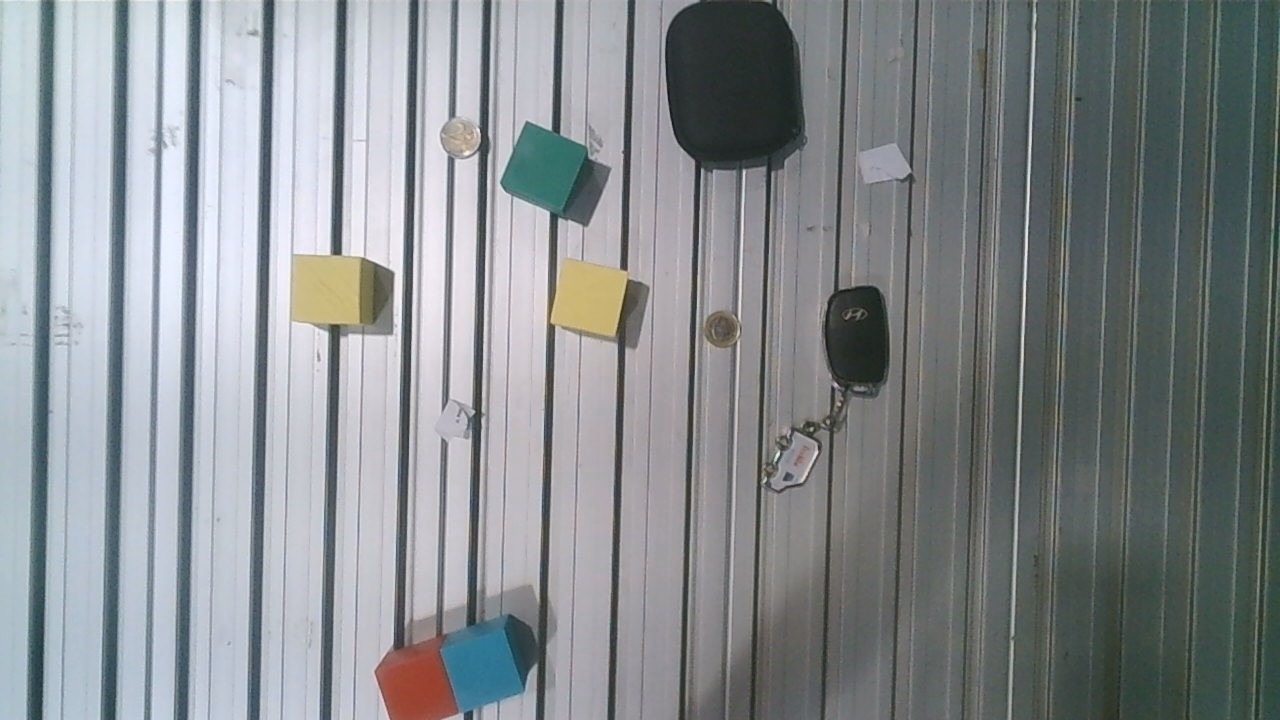
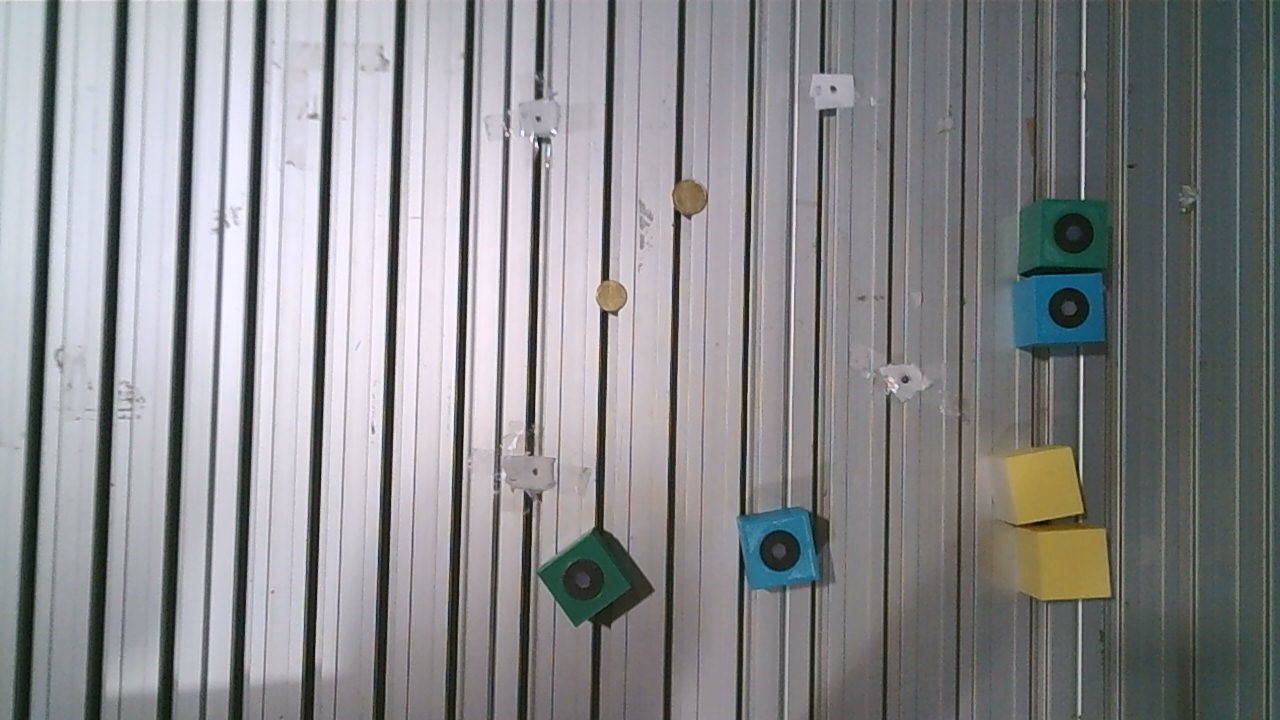
Puesta Marcha 5 mayo. - Poner cubos a altura camara (perspectiva) - Corregir pto recogida

diff --git a/lab3_pick_place_VC/client-tcpip-gofa/calibrar_homografia.py b/lab3_pick_place_VC/client-tcpip-gofa/calibrar_homografia.py
@@ -36,12 +36,12 @@ from pathlib import Path
 #  misma línea). Se recomienda 6 puntos para mayor precisión.
 # ─────────────────────────────────────────────────────────────────────────────
 ROBOT_PTS = [
-    ( 977.91,  211.70),   # punto 1
-    ( 799.23,  206.03),   # punto 2
-    ( 806.62,  479.68),   # punto 3
-    ( 911.53,  375.33),   # punto 4
-    (   899.34,    459.24),   # punto 5 — rellenar con jog en laboratorio
-    (   789.45,    395.48),   # punto 6 — rellenar con jog en laboratorio
+    ( 962.39,  225.96),   # punto 1
+    ( 741.32,  223.13),   # punto 2
+    ( 718.63,  408.32),   # punto 3
+    ( 899.91,  454.02),   # punto 4
+    (   851.5,272.88),   # punto 5 — rellenar con jog en laboratorio
+    (   786.91,319.71),   # punto 6 — rellenar con jog en laboratorio
 ]
 
 # ─────────────────────────────────────────────────────────────────────────────